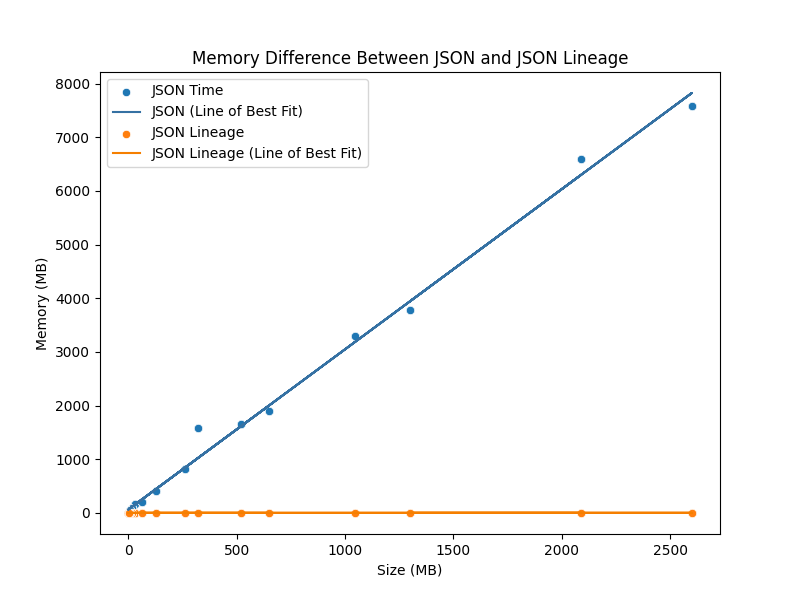
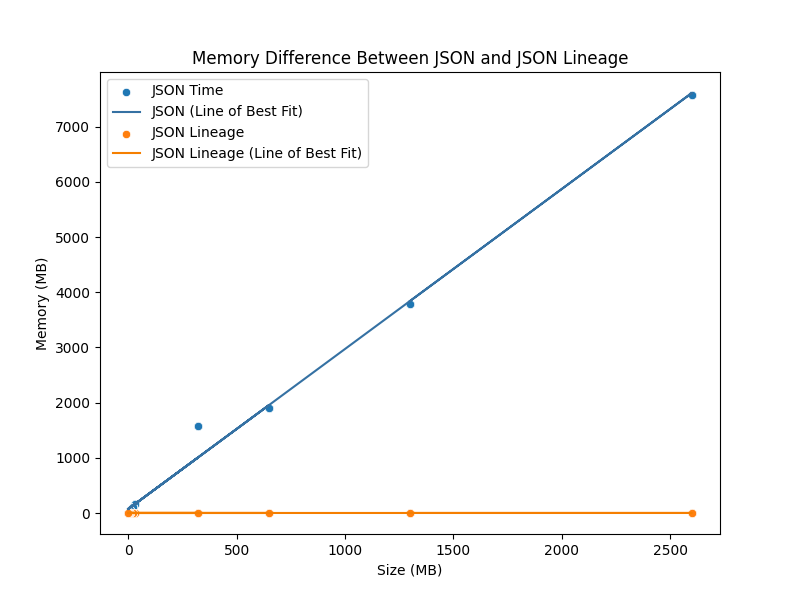
strings converted to python objects.

diff --git a/adapters/python/json_lineage/bin_interface.py b/adapters/python/json_lineage/bin_interface.py
@@ -3,6 +3,7 @@ import os
 import platform
 import subprocess
 import typing as _t
+import json
 from collections.abc import Awaitable, Coroutine
 
 from .exceptions import BinaryExecutionException
@@ -99,7 +100,7 @@ class BinaryIterator:
         if not line and self.process.poll() is not None:
             raise StopIteration
 
-        return line
+        return json.loads(line)
 
     def raise_err_if_stderr(self) -> None:
         """Raise an exception if the process has exited with a non-zero

diff --git a/adapters/python/benchmark.py b/adapters/python/benchmark.py
@@ -18,7 +18,7 @@ FP = os.path.join(
     "..",
     "..",
     "sample_data",
-    "large-file2.json",
+    "1gb_sample.json",
 )
 
 
